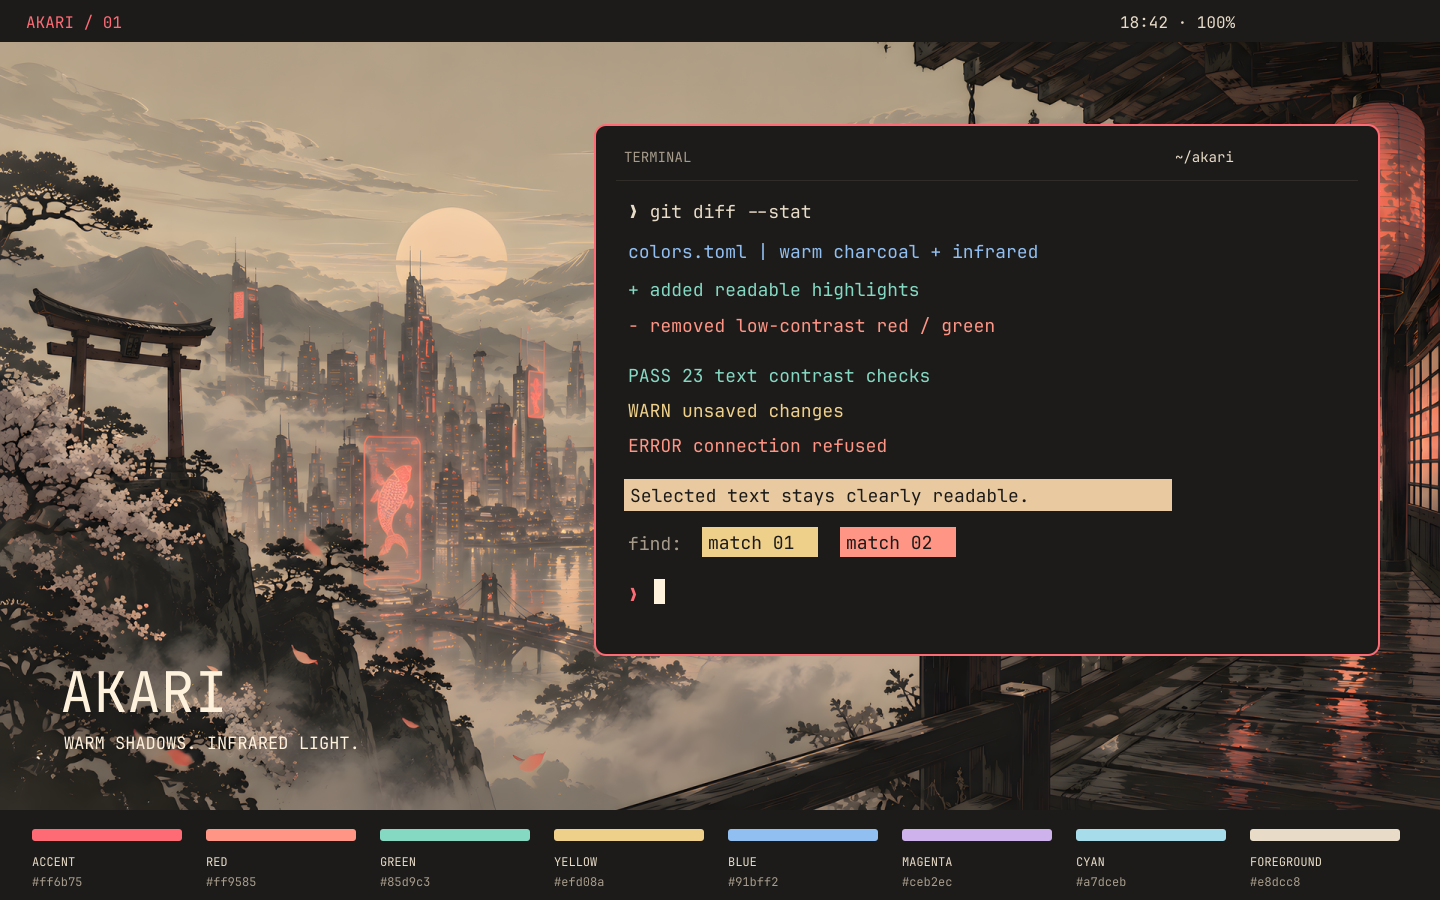
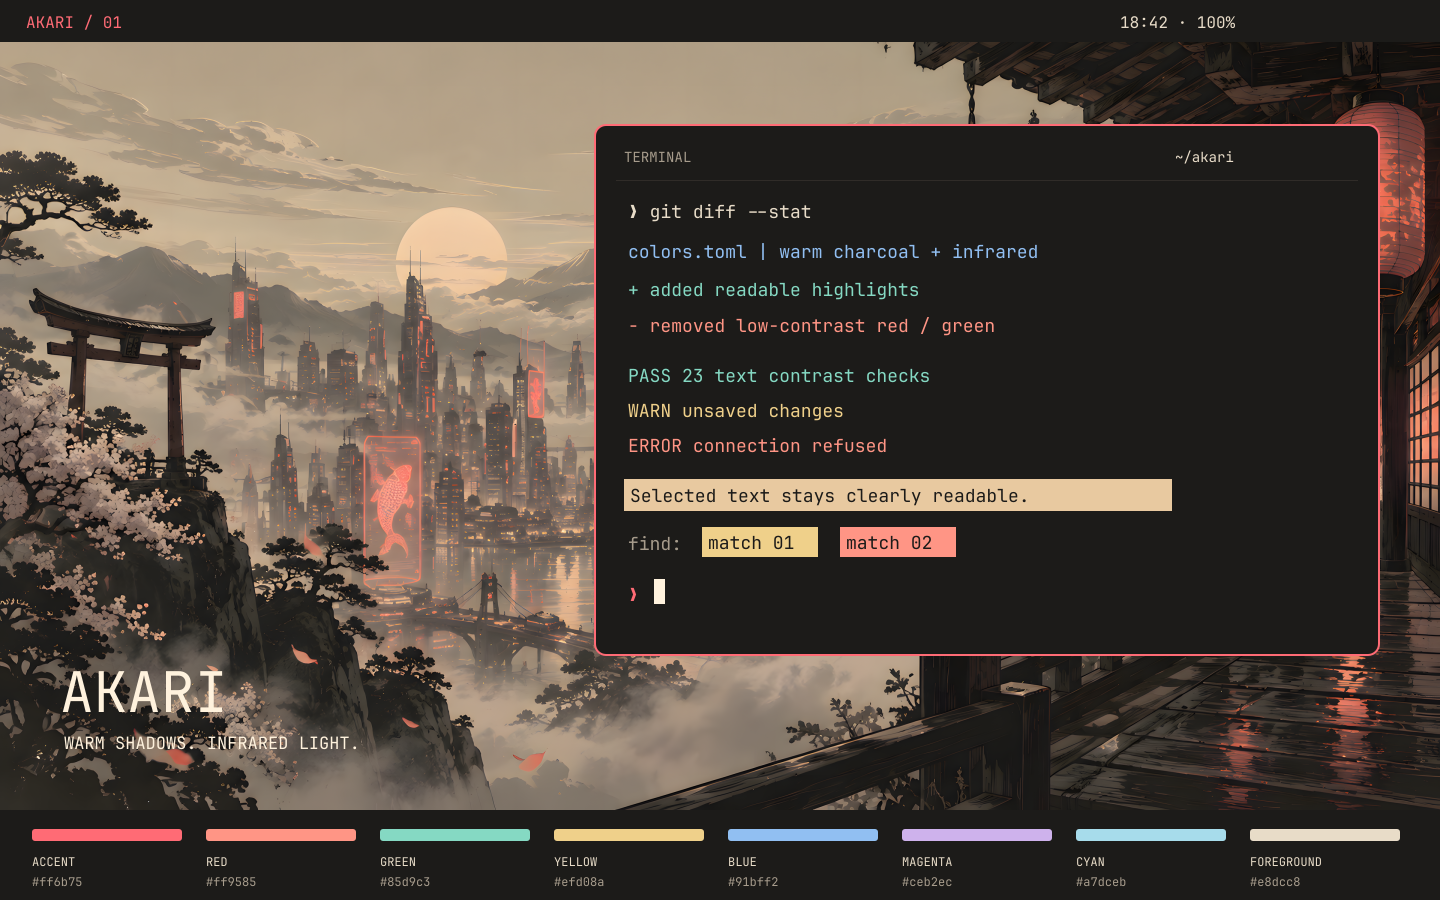
fix: show only the 4K wallpaper in the selector

diff --git a/README.md b/README.md
@@ -52,15 +52,7 @@ Integration depends on the installed Omarchy version and app configuration. GTK 
 
 ## Wallpapers
 
-Three versions of the same wallpaper are included in `backgrounds/`:
-
-| File | Resolution |
-| --- | --- |
-| `01-akari-4k.png` | 3840 × 2160, selected first |
-| `02-akari-2k.png` | 2560 × 1440 |
-| `03-akari-fhd.png` | 1920 × 1080 |
-
-Cycle them with `omarchy theme bg next`.
+Only the 4K wallpaper (`backgrounds/01-akari-4k.png`, 3840 × 2160) is included, so the wallpaper selector shows one entry. It also scales to lower-resolution displays.
 
 ## Readability
 
